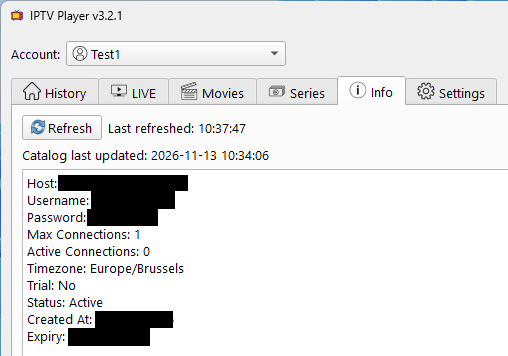
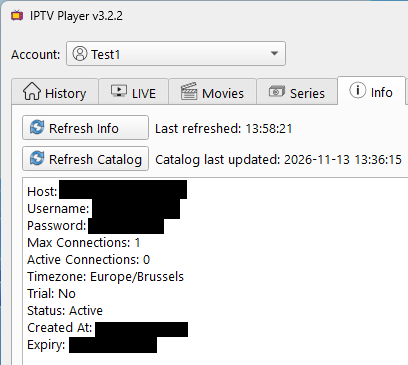
Update User Guide for IPTV Player v3.2.2

Changed region(s): [[0.0, 0.1854, 1.0, 1.0], [0.0, 0.0927, 0.7059, 0.1854], [0.0, 0.0309, 0.3235, 0.0618]]

diff --git a/README.md b/README.md
@@ -155,9 +155,9 @@ History entries can be removed individually or in groups. Use **Ctrl** on Window
 
 The **Info** tab displays information about the currently selected IPTV account.
 
-Its content is refreshed automatically when the tab is opened. A manual refresh can also be triggered with the **Refresh** button.
+Account information is refreshed automatically when the tab is opened. Use **Refresh Info** to update it manually or **Refresh Catalog** to reload the active account's catalogue. **Refresh Catalog** performs the same action as the refresh button next to **Active account** in **Settings**.
 
-**Catalog last updated** shows the date and local time of the active account's last successful catalogue update. It updates after manual or automatic catalogue refreshes. Loading the JSON cache preserves its original fetch date, and a failed refresh keeps the previous date. The account-status **Refresh** button does not change this catalogue timestamp.
+**Last refreshed** shows when the account information was last retrieved. **Catalog last updated** shows the date and local time of the active account's last successful catalogue update. Loading the JSON cache preserves its original fetch date, and a failed catalogue refresh keeps the previous date.
 
 The refresh interval can be configured in **Advanced Settings**. To avoid unnecessary requests, the information is only refreshed while the **Info** tab is actually being viewed.
 
